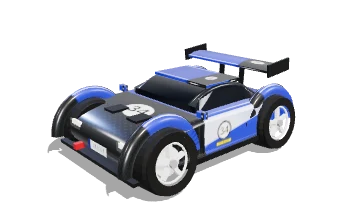
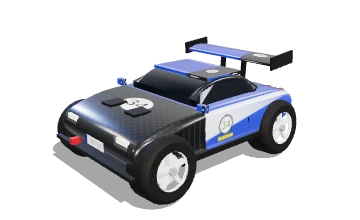
Quita «Ajustar derrape» (UX-35); altura nueva de Drift en peana y tarjetas (COC-26)
Claude-Session: https://claude.ai/code/session_01CEfho1M2kuuniFum93jcBg

Changed region(s): [[0.1222, 0.1636, 0.825, 0.9545]]

diff --git a/src/main.js b/src/main.js
@@ -109,8 +109,6 @@ async function init() {
     if (VIEW[id]) { room.setView(VIEW[id]); room.showCar(id === 'm-garage' ? (gSel ||= profile.selected) : profile.selected); }
     if (id === 'm-garage') buildGarage();
     if (id === 'm-disc') buildDiscs();
-    $('btn-dtune').classList.toggle('hidden', disc !== 'drift');
-    $('btn-dtune-setup').classList.toggle('hidden', disc !== 'drift' || mode === 'battle');
   }
   let garageReturn = null; // pantalla de origen si el garaje se abrió desde "Más coches" (UX-21)
   const leaveGarage = () => { const r = garageReturn; garageReturn = null; if (r) { r.rebuild(); showScreen(r.screen); } else showScreen('m-main'); };
@@ -577,8 +575,6 @@ async function init() {
     $('dt-text').textContent = driftText();
   }
   const openDtune = (back) => { dtBack = back; buildDtune(); showScreen('m-dtune'); };
-  $('btn-dtune').addEventListener('click', () => { sfx.play('click'); openDtune('m-pause'); });
-  $('btn-dtune-setup').addEventListener('click', () => { sfx.play('click'); openDtune('m-setup'); });
   $('dt-back').addEventListener('click', () => { sfx.play('click'); showScreen(dtBack); });
   $('dt-reset').addEventListener('click', () => { sfx.play('click'); resetDriftTune(); if (race) race.applyTuning(tuning); buildDtune(); });
   $('dt-copy').addEventListener('click', () => {

diff --git a/index.html b/index.html
@@ -97,7 +97,6 @@
         <div class="opt"><span>Rivales</span><div class="seg" id="opt-rivals"></div></div>
         <div class="opt"><span>Dificultad</span><div class="seg" id="opt-diff"></div></div>
       </div>
-      <button id="btn-dtune-setup" class="big-btn alt hidden">🎛 Ajustar derrape</button>
       <button id="btn-go" class="big-btn">¡A correr!</button>
     </div>
   </div>
@@ -172,7 +171,6 @@
       <h2>Pausa</h2>
       <button class="big-btn" id="btn-resume">▶ Seguir</button>
       <button class="big-btn alt" id="btn-restart">↻ Reiniciar</button>
-      <button class="big-btn alt hidden" id="btn-dtune">🎛 Ajustar derrape</button>
       <div class="opt"><span>Música</span><div class="seg" id="opt-music2"></div></div>
       <div class="opt"><span>Sensibilidad</span><div class="seg" id="opt-sens2"></div></div>
       <button class="big-btn alt" id="btn-quit">Salir al menú</button>

diff --git a/src/showroom.js b/src/showroom.js
@@ -236,7 +236,9 @@ export function carOnStand(def, color, rim) {
     { x: def.wheelX, z: def.wheelZr, front: false }, { x: -def.wheelX, z: def.wheelZr, front: false },
   ];
   const m = buildCarModel(def, color, W, -0.02, rim);
-  const hubY = -0.02 - 0.22;
+  // COC-26: los de Drift van más altos en pista (rueda ~0,34 bajo el anclaje con rest 1,3); en la peana igual
+  const drift = def.disc?.length === 1 && def.disc[0] === 'drift';
+  const hubY = -0.02 - (drift ? 0.34 * (def.mods?.rest ?? 1) / 1.3 : 0.22);
   m.userData.wheels.forEach((w) => { w.position.y = hubY; });
   m.userData.updateSuspension([hubY, hubY, hubY, hubY]);
   m.position.y = -0.5 + def.wheelR - hubY;

diff --git a/specs/07-ui-ux.md b/specs/07-ui-ux.md
@@ -63,6 +63,7 @@ Inicio (toca para empezar)
 | UX-32 | Menú (petición #89): el botón **Jugar** pasa a llamarse **Carrera**; la **Batalla de la Estrella** se quita del menú principal y va como 4.º modo en la columna Carrera del selector de disciplina (← vuelve al selector). Garaje y Opciones en una fila | ✅ |
 | UX-33 | Menú principal: botón **Online** bajo Carrera, deshabilitado («Pronto») hasta que exista el online (NET-08) | ✅ |
 | UX-34 | **Foto en las tarjetas de La maqueta** (petición #93): las dos tarjetas de La maqueta (subida y bajada) muestran su foto del circuito, como el resto (`public/previews/track-senda.webp`, generada con `tests/previews.mjs`). Criterio: en Obstáculos las tarjetas de La maqueta ya no salen con el color liso | ✅ (pendiente de ver en móvil) |
+| UX-35 | **Quitado el botón «🎛 Ajustar derrape»** (petición #95) de preparar carrera y de la pausa; la pantalla de ajuste ya no es accesible | ✅ |
 | UX-19 | **Coche libre en preparar carrera, campeonato y garaje**: paneles en el 58 % izquierdo de la pantalla; la cámara del taller desplaza la imagen para centrar el coche en el 42 % derecho, sin que lo tape ninguna lista. Cada coche nuevo arranca la peana mostrando el frente en 3/4 | ✅ (falta probar en el móvil) |
 | UX-20 | **Versión en la pantalla de inicio y en el menú principal** (abajo a la derecha, p. ej. `v1.0.123`): la pone el CI (`1.0.<nº de ejecución>`, la misma que el APK); en local sale `dev` | ✅ |
 | UX-21 | **«Más coches» vuelve a su sitio**: si el garaje se abre desde «Más coches» (preparar carrera o campeonato), «Usar este» devuelve al menú de origen con el coche elegido y «←» también vuelve ahí (no al menú principal) | ✅ |

diff --git a/specs/03-coches.md b/specs/03-coches.md
@@ -46,7 +46,7 @@ ajuste base. Nombres y diseños originales.
 
 | COC-24 | **Rally sin guardabarros** (`noArches` en `cars.js`; las aletas planas `flatArches` no se montan si el coche lo tiene). Criterio: el Rally no muestra aletas | ✅ (pendiente de probar en móvil) |
 | COC-25 | **Color del coche y de las llantas a elección** (peticiones #91-92). En el Garaje, cada coche tuyo tiene un botón 🎨 «Colores» (pestañas Carrocería y Llantas) que abre un selector con toda la gama (tono, saturación y brillo, más colores rápidos y «Original»). El color se guarda por coche en el perfil (`profile.paint[id]` y `profile.rims[id]`), vale para todos los coches y se ve en la peana, en carrera, en el fantasma y en el podio. Criterio: cambiar el color de dos coches, recargar y seguir viéndolos; «Original» devuelve el de fábrica (`node tests/paint.mjs`) | ✅ (pendiente de probar en móvil) |
-| COC-26 | **Coches de Drift más altos** (petición #94): Patín, Humo, Trompo, Bisonte y Katana pasan de `rest: 0.7` a `rest: 1.3` (la Flecha no cambia). Criterio: se ve hueco bajo la carrocería y `racesim cocina` termina | ✅ (pendiente de probar en móvil) |
+| COC-26 | **Coches de Drift más altos** (petición #94): Patín, Humo, Trompo, Bisonte y Katana pasan de `rest: 0.7` a `rest: 1.3` (la Flecha no cambia). En la peana del Garaje y en las fotos de las tarjetas también salen a esa altura (`carOnStand`). Criterio: se ve hueco bajo la carrocería y `racesim cocina` termina | ✅ (pendiente de probar en móvil) |
 
 ## Mejoras (desviación DES-02)
 

diff --git a/PROGRESO.md b/PROGRESO.md
@@ -7,6 +7,7 @@ Stack: Three.js (low-poly) + Rapier (físicas) + Vite, empaquetado con Capacitor
 - **APK (última versión):** https://zeroping7.github.io/Re-Back/re-back.apk
   (alternativa: https://github.com/zeroping7/Re-Back/releases/latest)
 
+- 16-nov-2026: quitado «Ajustar derrape» (UX-35); coches de Drift más altos también en Garaje y tarjetas (COC-26).
 - 16-nov-2026: tarjetas de circuito: La maqueta ya tiene foto (UX-34).
 - 16-nov-2026: **color del coche a elección** (Garaje › 🎨 Colores: carrocería y llantas): selector de tono/saturación/brillo + colores rápidos + «Original»; se guarda por coche en el perfil (COC-25).
 - 15-nov-2026: menú principal «Carrera · Garaje · Opciones»; la Batalla de la Estrella pasa a la columna Carrera (UX-32).

diff --git a/specs/historial.md b/specs/historial.md
@@ -106,3 +106,4 @@ Todo lo que el usuario ha pedido, en orden, y lo que se decidió. Las specs refl
 | 92 | Poder cambiar también el color de las llantas | COC-25 ✅ |
 | 93 | Mejorar las tarjetas de UI: poner la foto de La maqueta (Obstáculos) en las tarjetas de selección de circuito | UX-34 ✅ |
 | 94 | Subir la altura de los coches de Drift salvo la Flecha (opción 3 de la preview) | COC-26 ✅ |
+| 95 | Quitar el botón de ajustar derrape y poner la nueva altura de Drift en la peana y en las tarjetas | UX-35, COC-26 ✅ |
